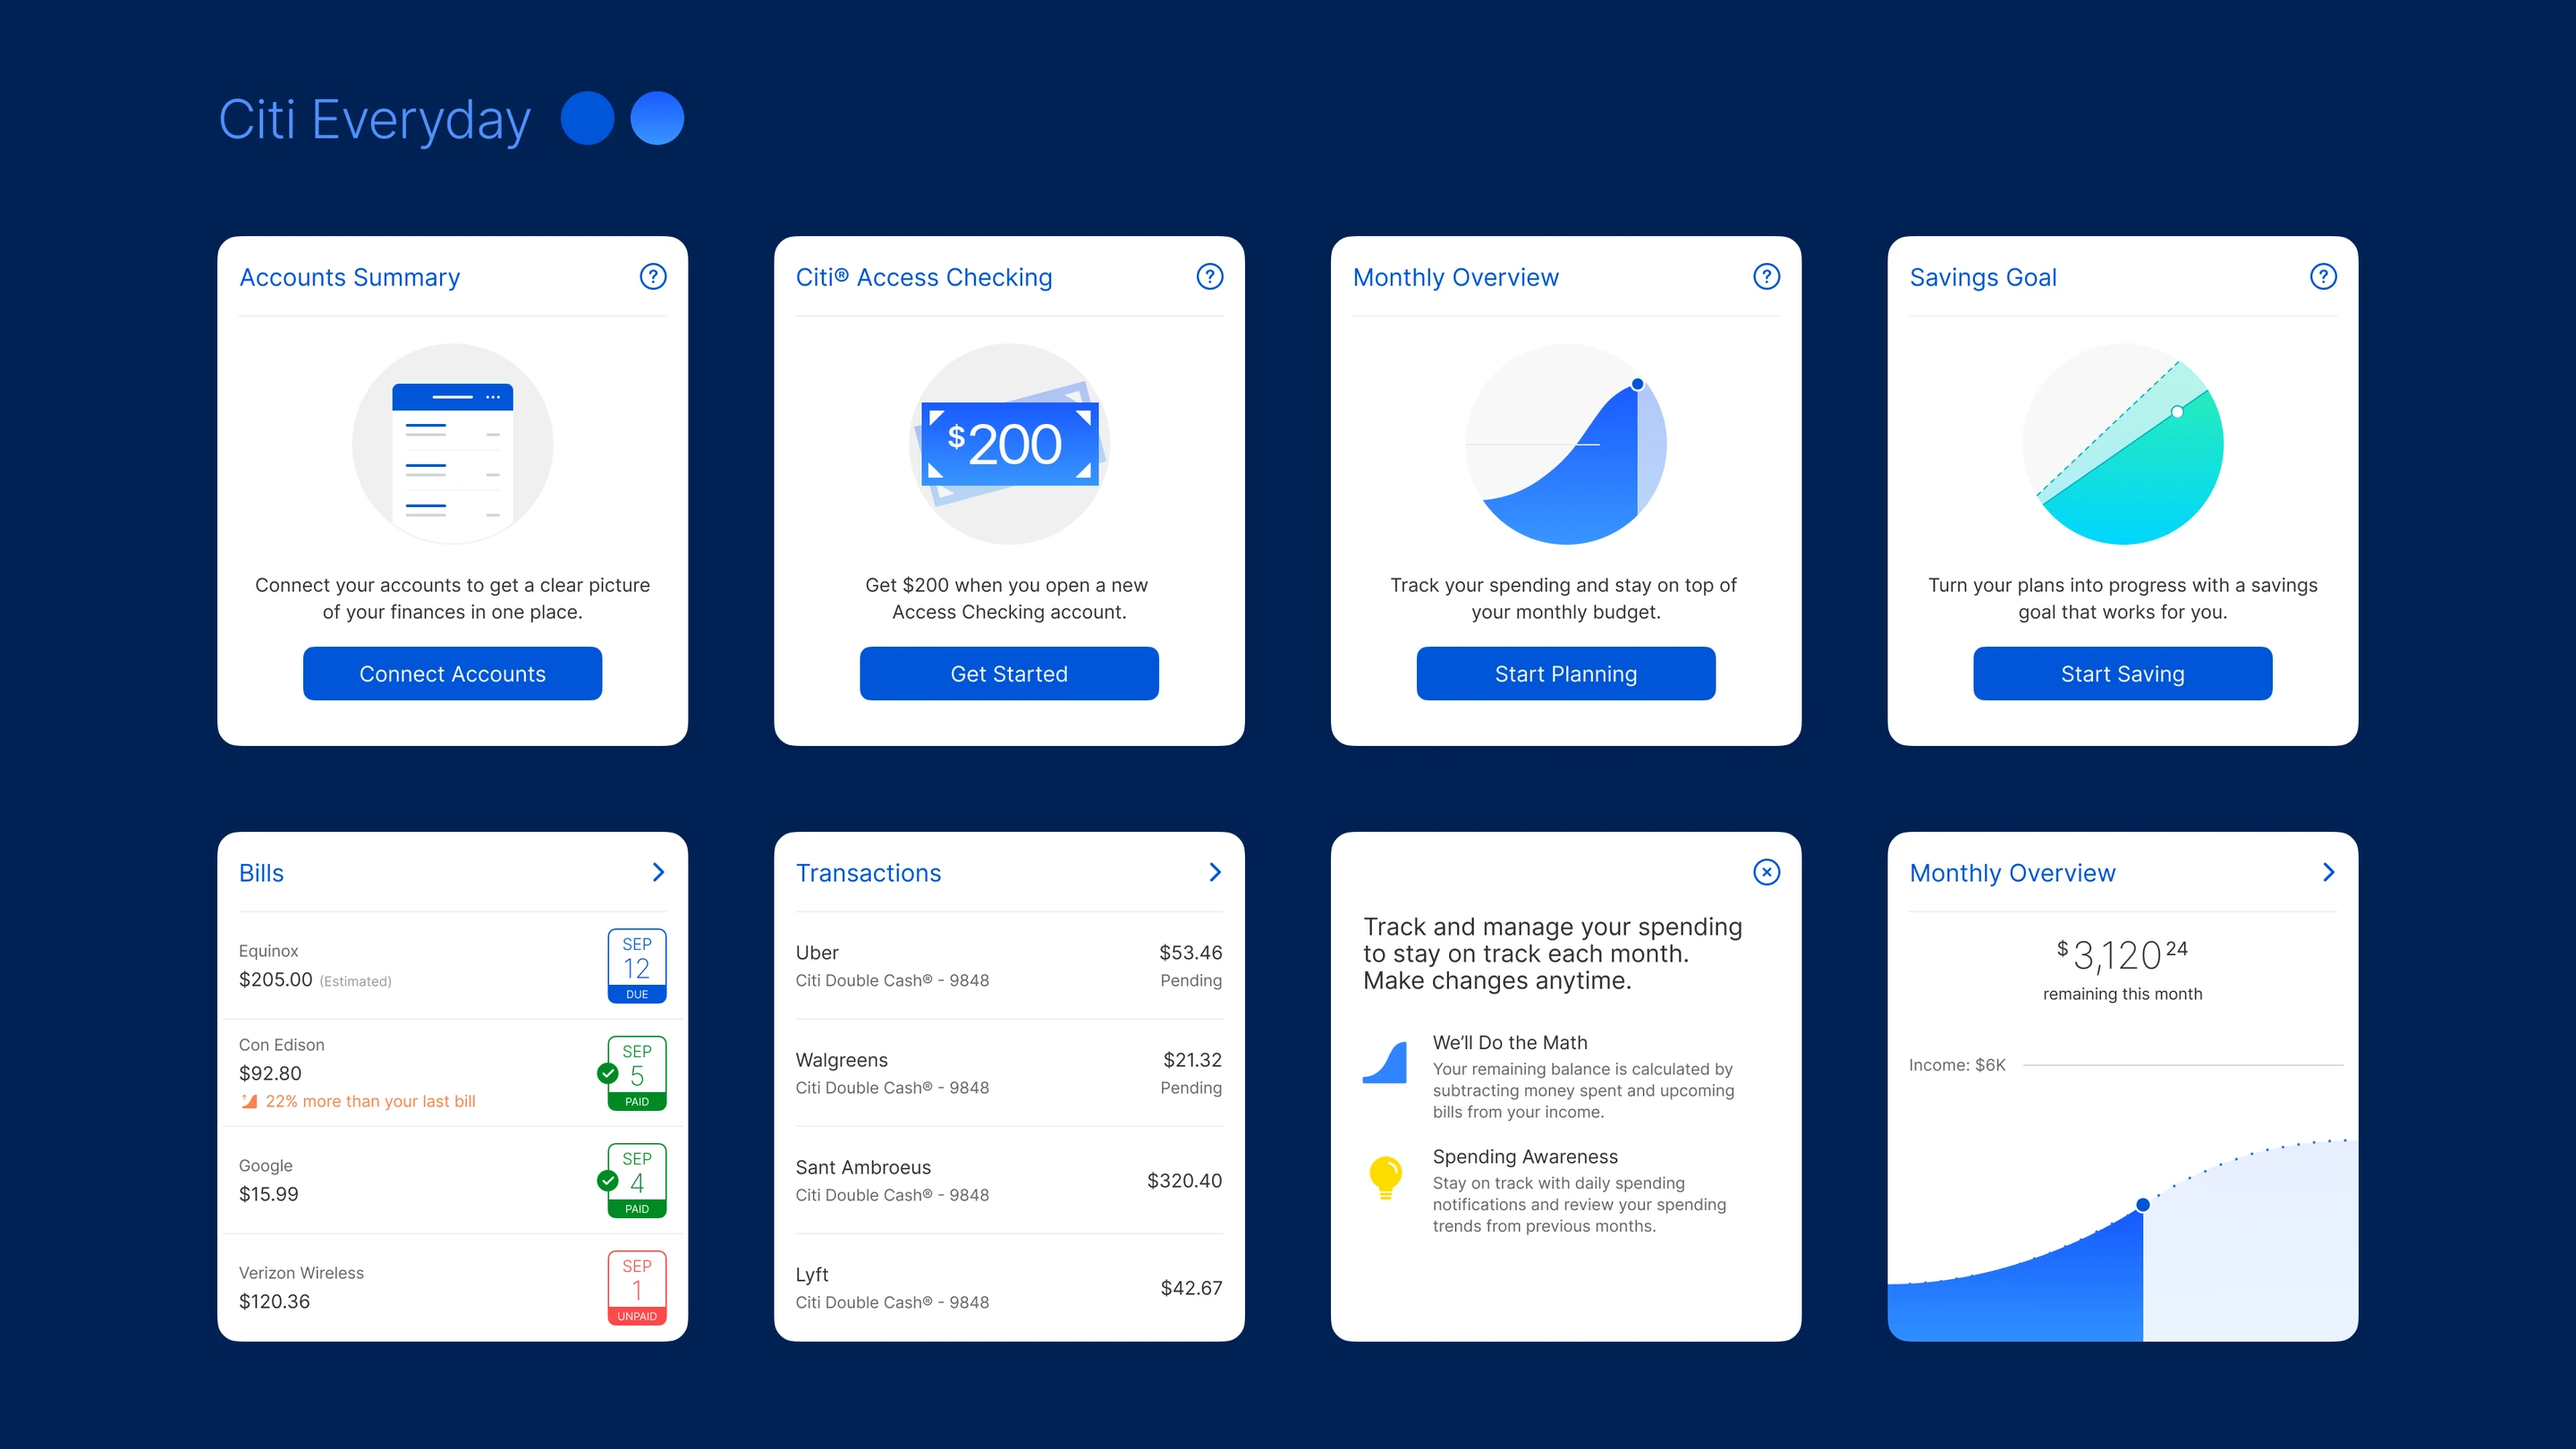
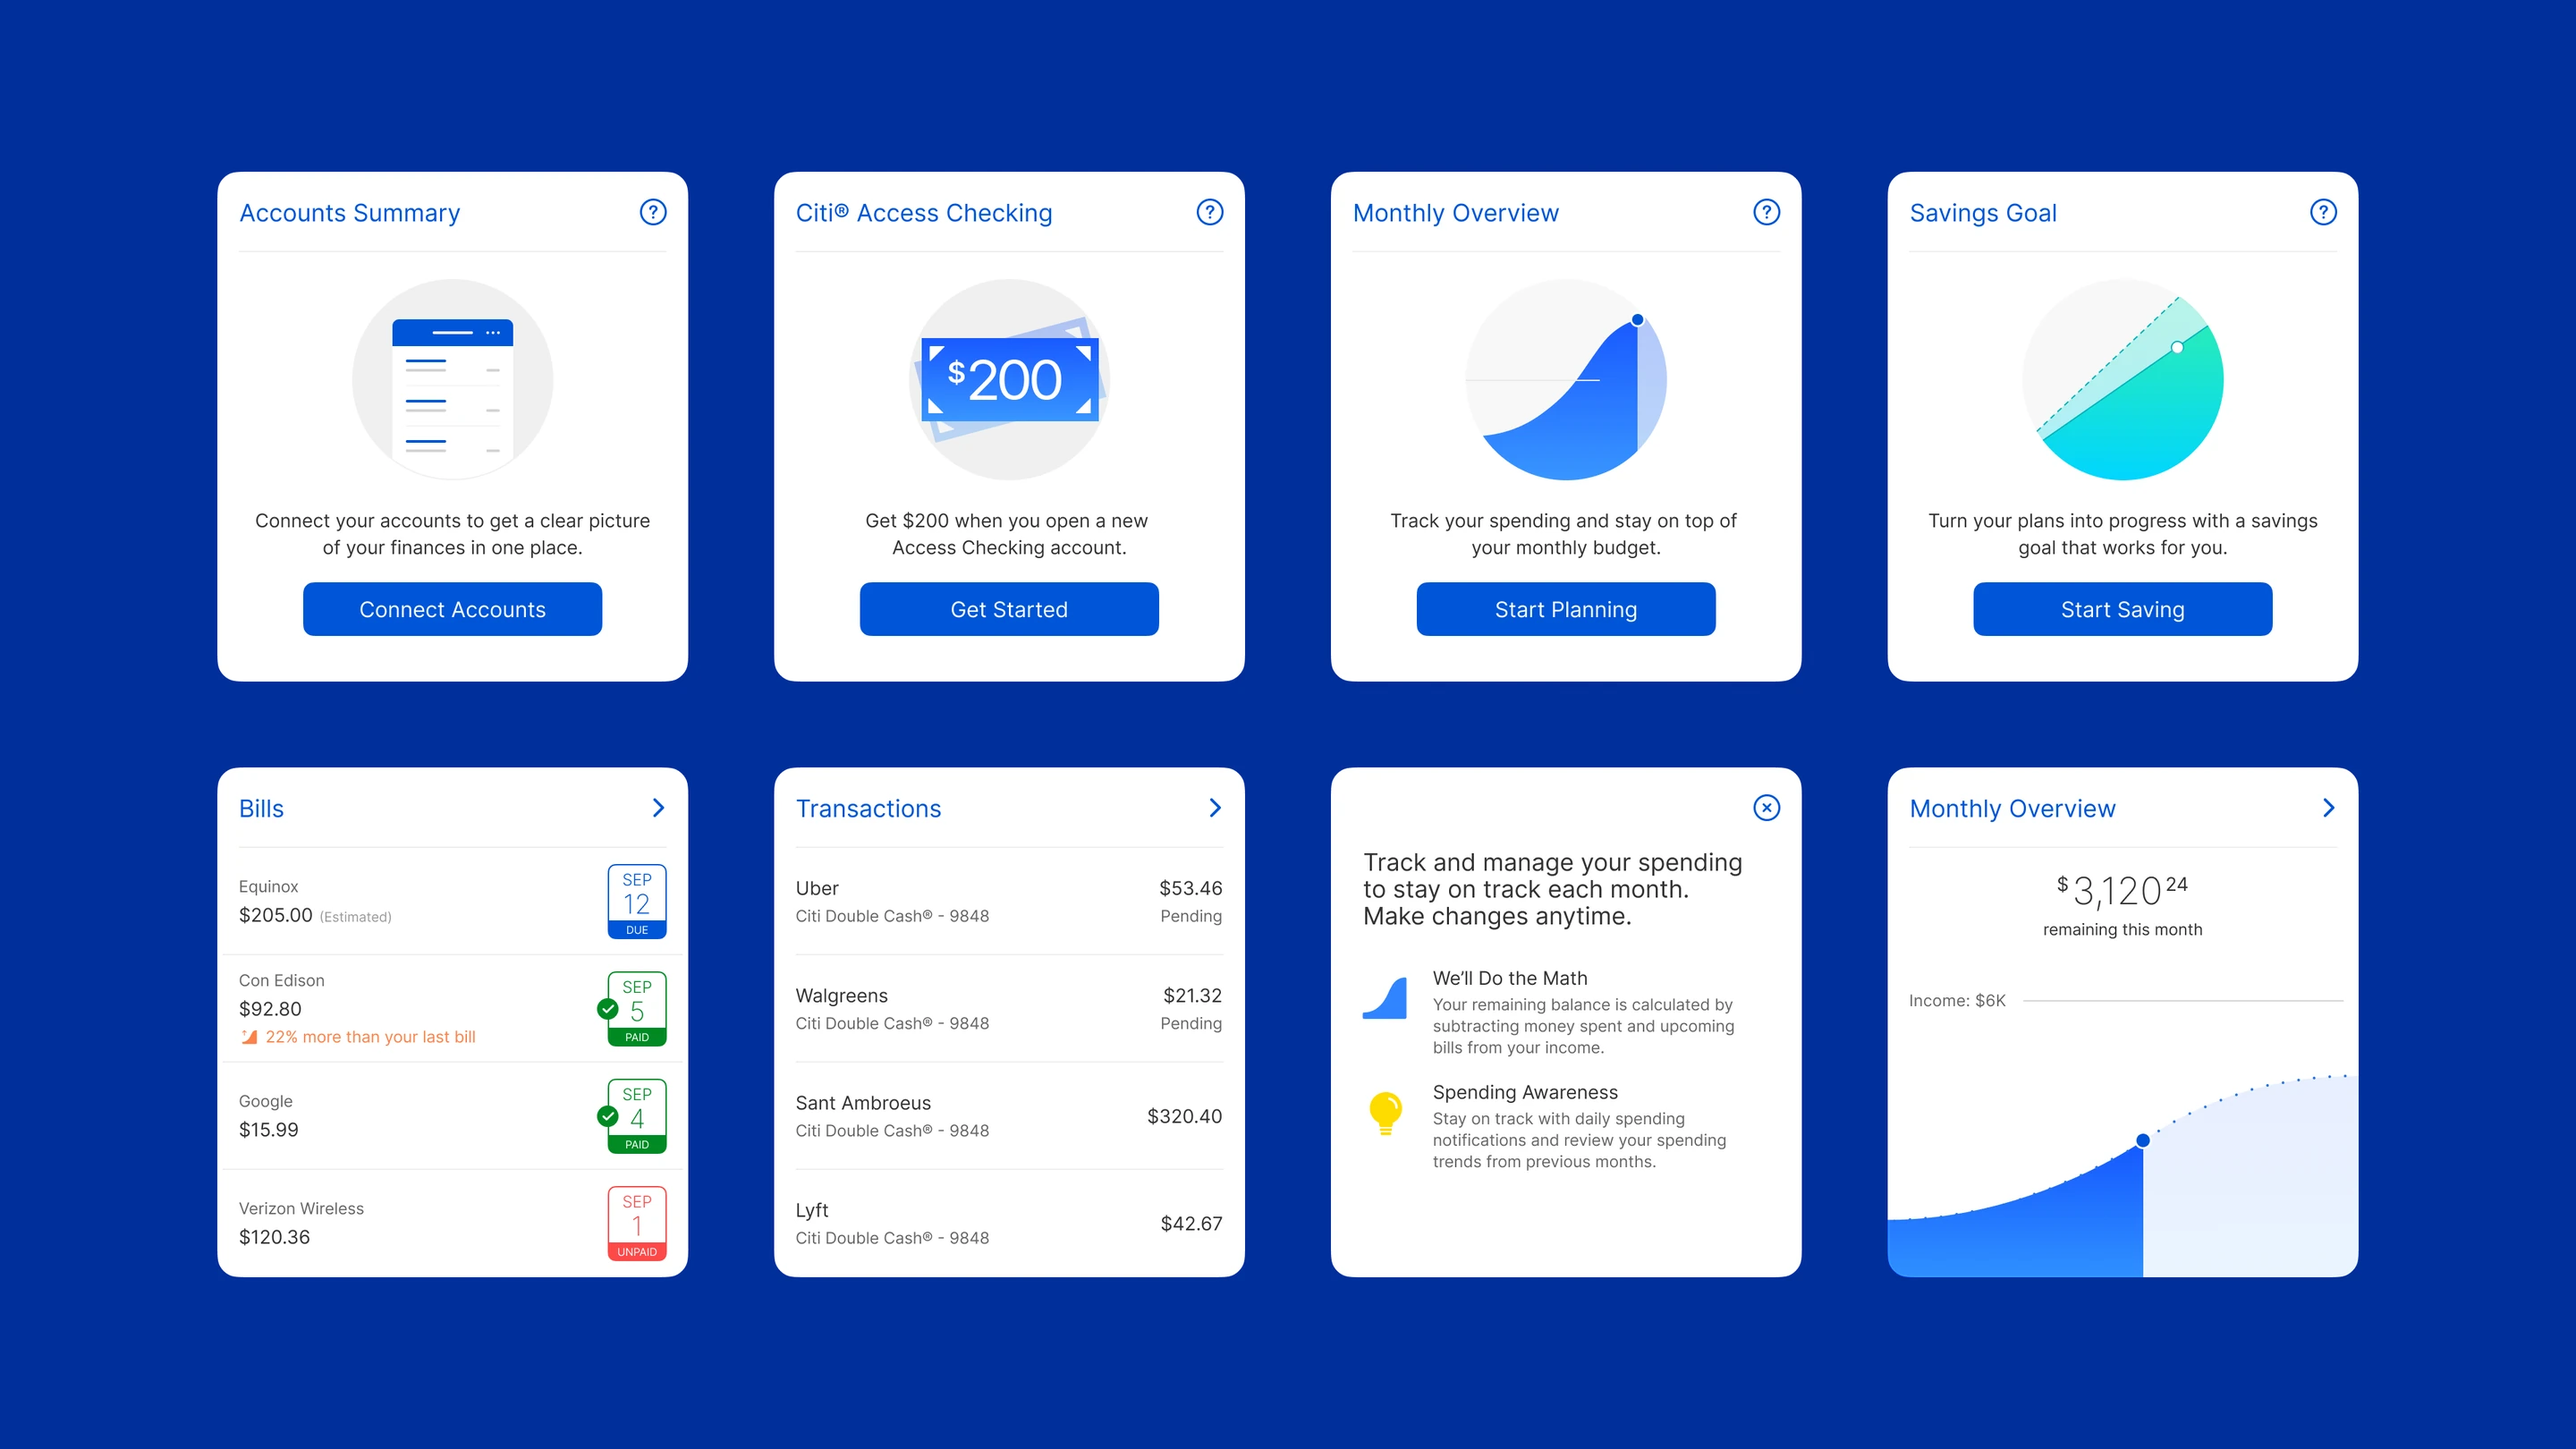
Citi 03 Color Theming: legend removed, tiles centred vertically (-72px, row overlay y 1188), backgrounds Blue #002F9B / Priority #17293F / Gold #2C1F10 (crossfade with the theme layers). ?v 314

diff --git a/projects/citi.html b/projects/citi.html
@@ -71,7 +71,7 @@
   </section>
 </div>
 <figure class="bleed fig fx"><div class="media mframe" data-citi-theme role="img" aria-label="Color theming, looping animation: on the Citi Everyday dashboard a transaction swipes open to Split with Zelle and closes again; then the theme crossfades from Citi Everyday to Citi Priority to Citigold and back to Everyday. The cards stay white while the background, header, buttons, illustrations and chart change colour; on Citigold the offer becomes the Citi Investment Account and the account names become Citi AAdvantage Executive.">
-  <img src="../assets/citi/theme/blue.webp?v=303" width="2880" height="1620" loading="lazy" alt="">
+  <img src="../assets/citi/theme/blue.webp?v=314" width="2880" height="1620" loading="lazy" alt="">
 </div>
   <figcaption data-static>Citi Everyday, Citi Priority, Citigold</figcaption></figure>
 <div class="wrap">
@@ -95,5 +95,5 @@
 </main>
 <footer class="foot"><a class="ax" href="#top"><span class="t">BACK TO TOP</span><span class="arr arr-up" aria-hidden="true"><svg viewBox="0 0 20 16" fill="none"><path d="M0 8H19M11 0L19 8l-8 8"/></svg></span></a></footer>
 <footer class="bot"><span>© 2026 DESIGNBYHANG</span></footer>
-<script src="../js/demos.js?v=311"></script><script src="../js/squircle.js?v=311"></script><script src="../js/sfx.js?v=311"></script><script src="../js/theme.js?v=311"></script><script src="../js/fs-motion.js?v=311"></script><script src="../js/case.js?v=311"></script><script src="../js/hang-egg.js?v=311"></script><script src="../js/citi-intro.js?v=311"></script><script src="../js/state-seq.js?v=311"></script><script src="../js/citi-tile.js?v=290" defer></script><script src="../js/citi-chart.js?v=306" defer></script><script src="../js/citi-theme.js?v=304" defer></script><script src="../js/citi-spending.js?v=312" defer></script>
+<script src="../js/demos.js?v=311"></script><script src="../js/squircle.js?v=311"></script><script src="../js/sfx.js?v=311"></script><script src="../js/theme.js?v=311"></script><script src="../js/fs-motion.js?v=311"></script><script src="../js/case.js?v=311"></script><script src="../js/hang-egg.js?v=311"></script><script src="../js/citi-intro.js?v=311"></script><script src="../js/state-seq.js?v=311"></script><script src="../js/citi-tile.js?v=290" defer></script><script src="../js/citi-chart.js?v=306" defer></script><script src="../js/citi-theme.js?v=314" defer></script><script src="../js/citi-spending.js?v=312" defer></script>
 </body></html>

diff --git a/js/citi-theme.js b/js/citi-theme.js
@@ -13,9 +13,9 @@
    Plays while it has the page's demo turn (js/demos.js), the box is >= 35% in view and the tab is visible; paused where it is
    otherwise. Never interactive. Reduced motion: the still Blue frame (t 0). window.__citiTheme: seek(t) / resume() / PERIOD. */
 (function(){"use strict";
-var doc=document,NS="http://www.w3.org/2000/svg",RM=matchMedia("(prefers-reduced-motion: reduce)"),V="?v=304";
+var doc=document,NS="http://www.w3.org/2000/svg",RM=matchMedia("(prefers-reduced-motion: reduce)"),V="?v=314";
 var SW0=1600,SWD=640,SW1=3840,XF=640,STEPS=[[4800,0,1],[7040,1,2],[9280,2,0]],PERIOD=9280+XF; /* 9920 */
-var ROW={x:865.5,y:1260,w:526.5,h:120},SHIFT=180;
+var ROW={x:865.5,y:1188,w:526.5,h:120},SHIFT=180;
 var cl=function(v){return v<0?0:v>1?1:v},
  bez=function(x1,y1,x2,y2){return function(x){if(x<=0)return 0;if(x>=1)return 1;var u=x,i,cx,dx;   /* cubic-bezier(), CSS-style */
   for(i=0;i<8;i++){cx=3*x1*u*(1-u)*(1-u)+3*x2*u*u*(1-u)+u*u*u-x;dx=3*x1*(1-u)*(1-3*u)+3*x2*u*(2-3*u)+3*u*u;if(Math.abs(cx)<1e-5||!dx)break;u=cl(u-cx/dx)}
